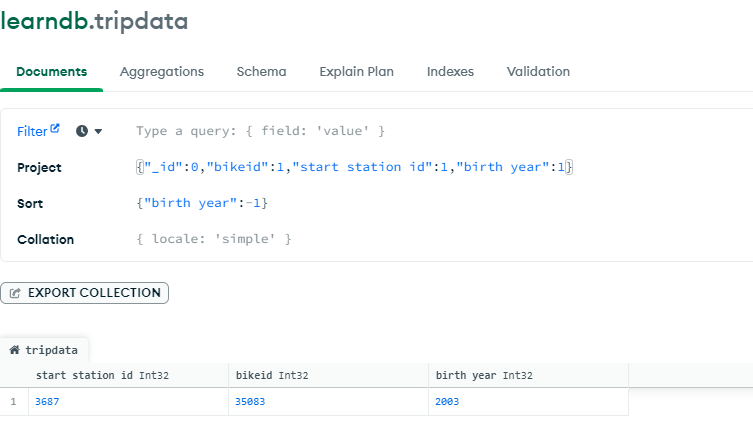
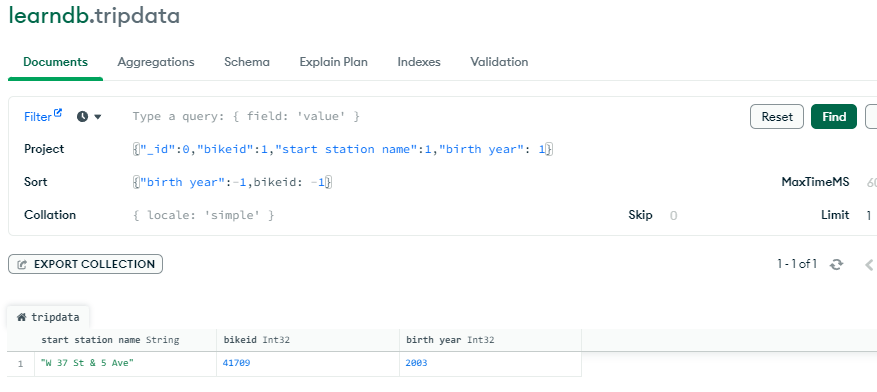
dz2

diff --git a/3. Базовые возможности mongodb/README.md b/3. Базовые возможности mongodb/README.md
@@ -65,6 +65,7 @@ learndb> db.createCollection('sample')
 
 Выгружаю данные в новую коллекцию tripdata базы learndb.
 Наличие данных можем проверить в Compass.
+
 ![compass_bikes][2]
 
 [2]: ../img/compass_citibikes.png
@@ -77,7 +78,7 @@ learndb> db.tripdata.find()
 
 ## Выборка данных
 
-Для примера сделаем выборку всех участников 1989 г.р., выведем поля bikeid,start station id, birth year, отсортируем по id городов по возрастанию.
+Для примера сделаем выборку всех участников 1995 г.р., выведем поля bikeid,start station name, birth year, отсортируем по id городов по возрастанию.
 
 ![compass_find_1][3]
 
@@ -86,16 +87,22 @@ learndb> db.tripdata.find()
 Аналогична команда в mongosh:
 
 ```bash
-learndb> db.tripdata.find({"birth year": 1989}, 
-{"_id":0,"bikeid":1,"start station id":1,"birth year": 1, "usertype":1}).sort({"start station id":1})
+learndb> db.tripdata.find({"birth year": 1995}, 
+{"_id":0,"bikeid":1,"start station name":1,"birth year": 1}).sort({"start station id":1})
 ```
 
-Другой вариант запроса - найти самого молодого участника, его байк и городс которого стартовал.
+Другой вариант запроса - найти самого молодого участника с самым старшим id байка, его байк и город, с которого стартовал. Предполагаем что bikeid - порядковый номер регистрации байка, поэтому последний зарегистрированный.
 
 ```bash
-learndb> db.tripdata.find({}, {"_id":0,"bikeid":1,"start station id":1,"birth year": 1}).sort({"birth year":-1}).limit(1)
+learndb> db.tripdata.find({}, {"_id":0,"bikeid":1,"start station name":1,"birth year": 1}).sort({"birth year":-1,bikeid: -1}).limit(1)
+[
+  {
+    'start station name': 'W 37 St & 5 Ave',
+    bikeid: 41709,
+    'birth year': 2003
+  }
+]
 
-[ { 'start station id': 3687, bikeid: 35083, 'birth year': 2003 } ]
 ```
 
 То же в Compass:
